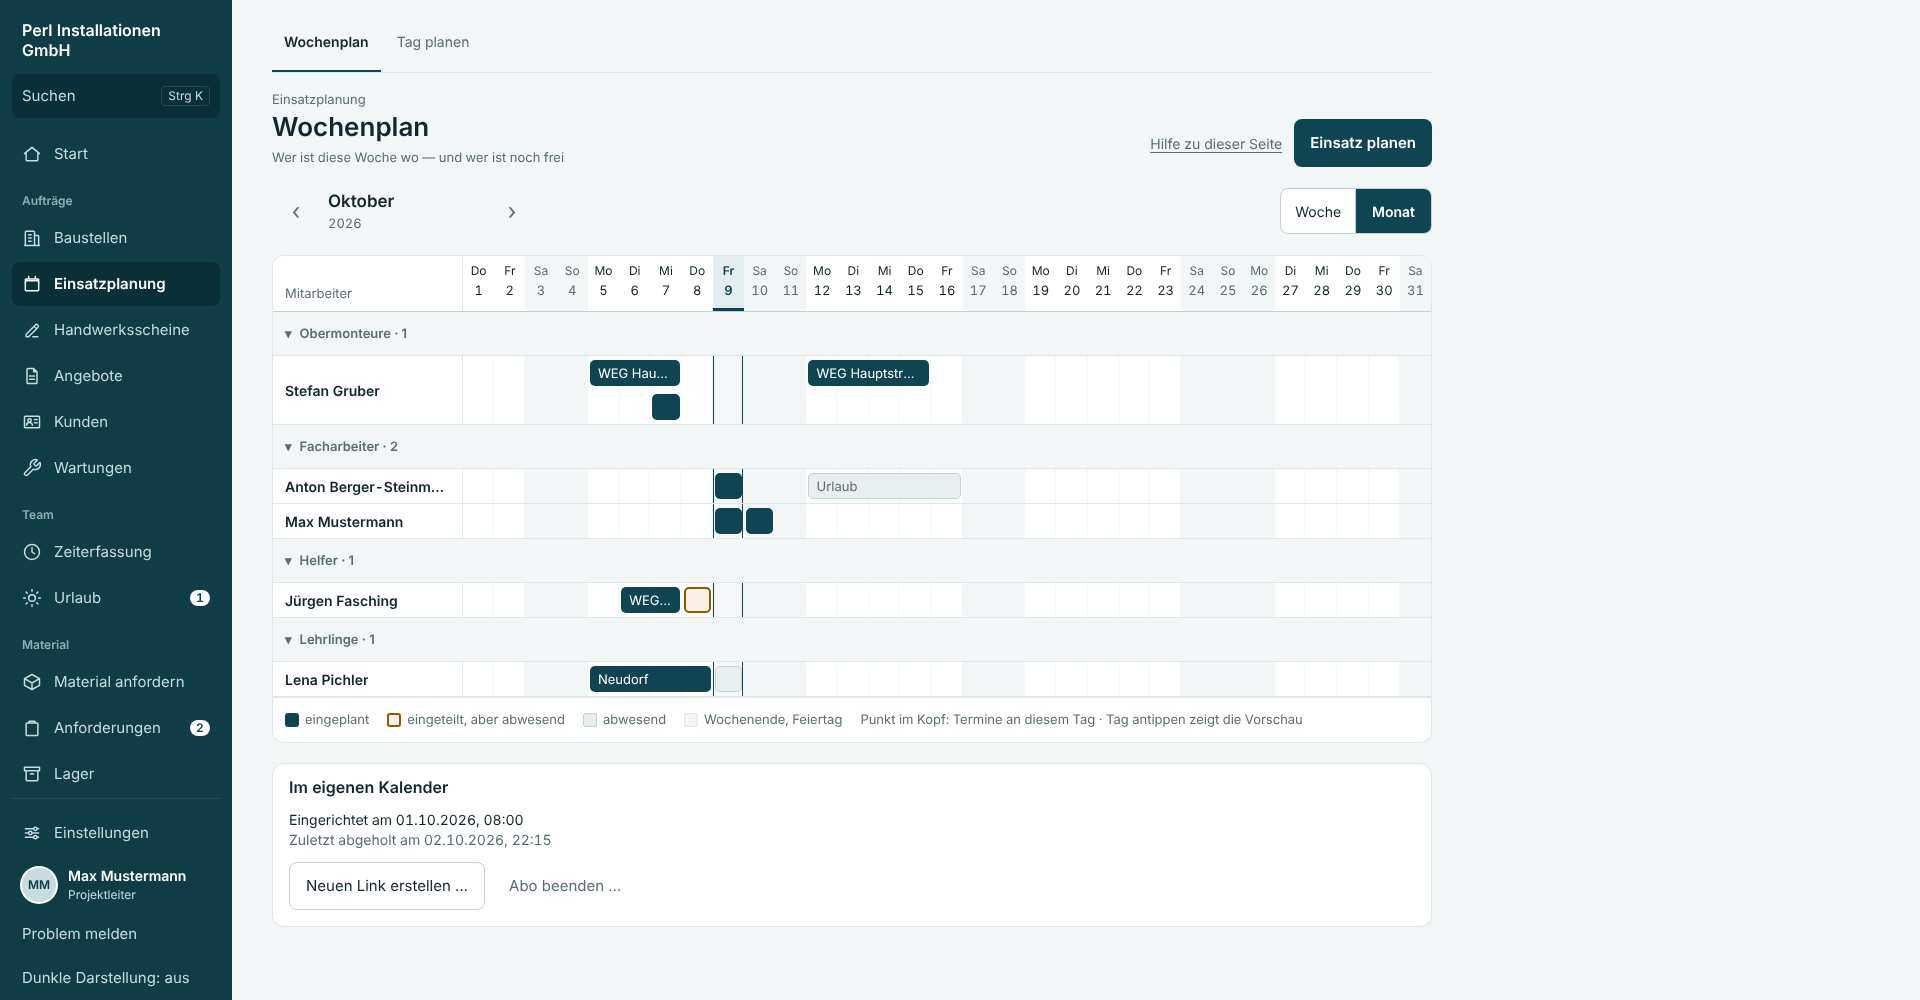
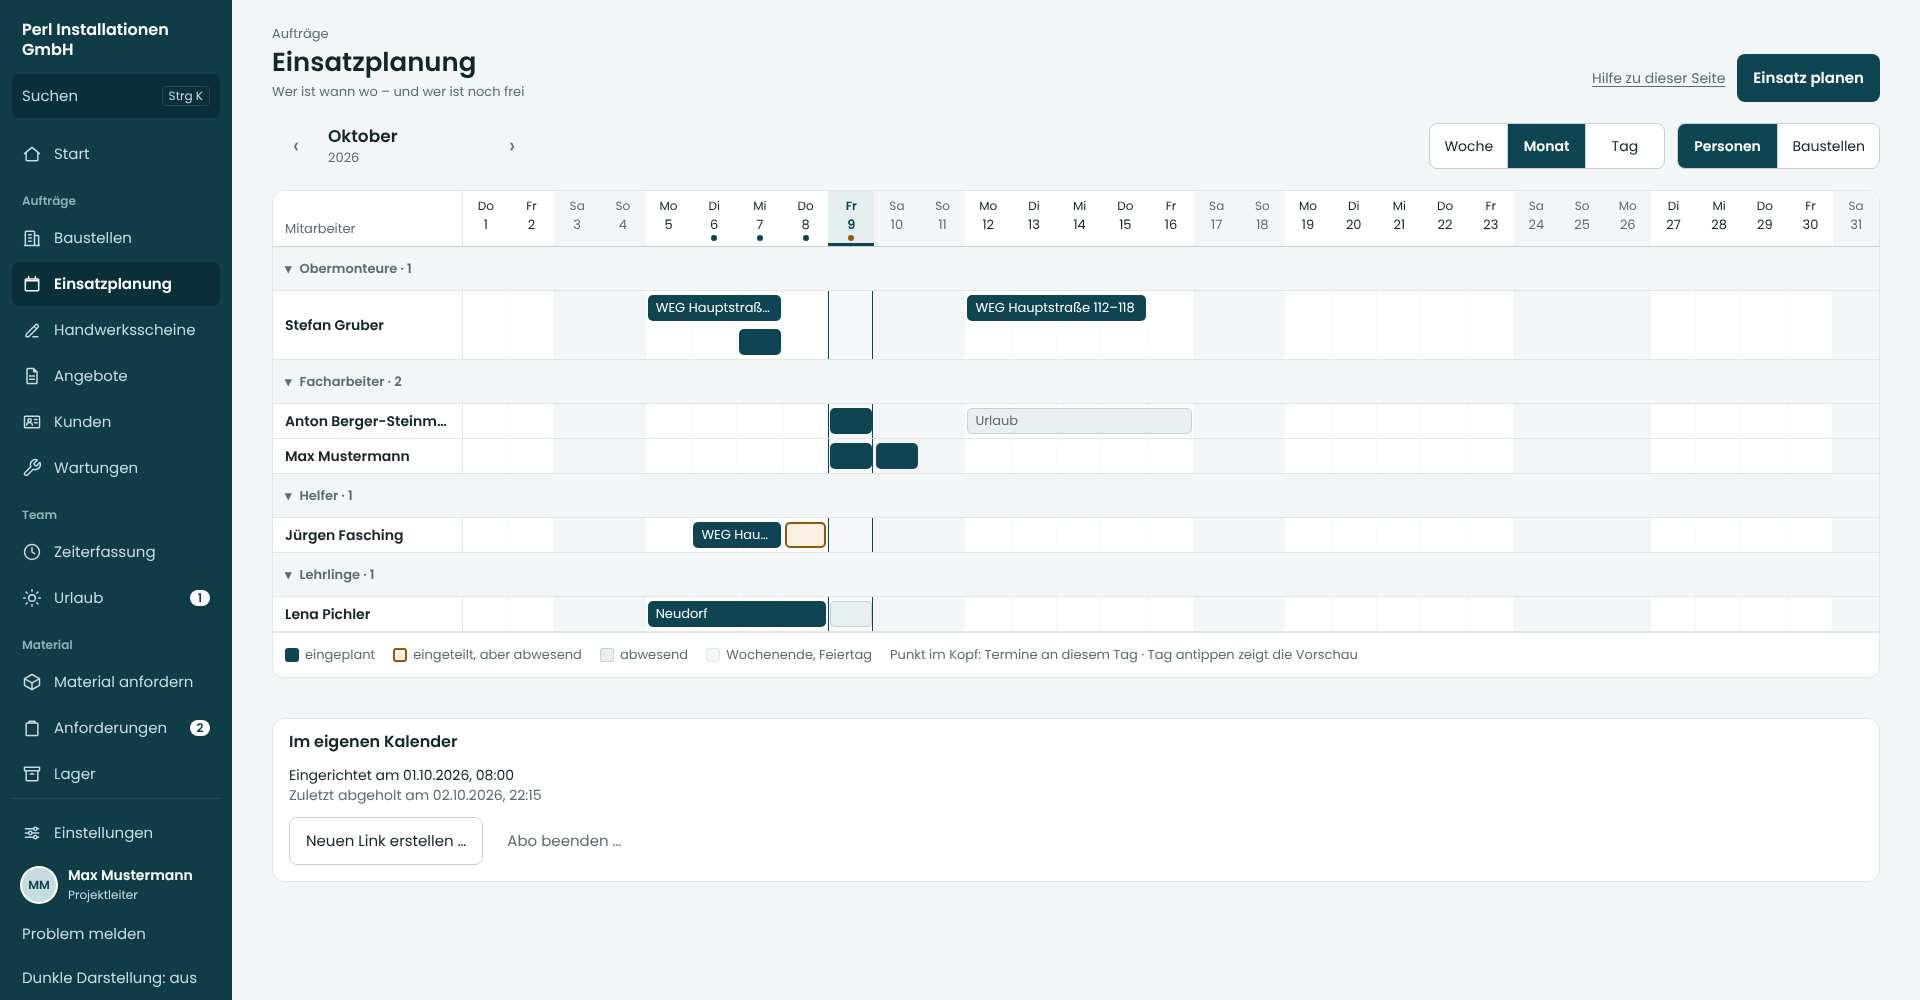
Fotos nachher, Stempel 6431 Prüfungen (4 648 Einheit, 1 738 Datenbank, 38 Browser, 7 Links)
Claude-Session: https://claude.ai/code/session_01EyetfL8jM2L1F4xSGoY9C8

diff --git a/docs/handbuch/handbuch.html b/docs/handbuch/handbuch.html
@@ -672,7 +672,7 @@
     <div class="stempel">
       <span>Stand <b>09.10.2026</b></span>
       <span>Fassung <b>Oberfläche Lot · Runde 4</b></span>
-      <span>Automatische Prüfungen <b>6198</b></span>
+      <span>Automatische Prüfungen <b>6431</b></span>
       <span><a href="https://installateur-demo.firebaseapp.com/">installateur-demo.firebaseapp.com</a></span>
     </div>
   </header>

diff --git a/docs/ui-umbau/r4/abnahme/R4-0.md b/docs/ui-umbau/r4/abnahme/R4-0.md
@@ -30,7 +30,7 @@ jede Änderung an Berechnungen, Exporten, Rechten oder dem Kalender-Abo.
 |---|---|---|
 | V1 | Zweig `ui-lot-r4` von main 21e4d94, Markierung `vor-r4` | erledigt |
 | V2 | Bestandsliste der drei Bereiche | Die Bestandsliste der Linie „Lot“ (`docs/ui-umbau/bestand-vorher.json`) enthält die Bereiche schon; die Zuordnung alt → neu steht vollständig in `docs/ui-umbau/r4/zuordnung.json` (Abschnitt 9, aus dem Code ergänzt). Ein neuer Lauf des Bestandsskripts je Rolle wurde nicht gemacht – **offen**. |
-| V3 | Bildschirmfotos vorher | `docs/ui-umbau/r4/vorher/` – Vorschau mit Beispieldaten, 390/834/1440/1920 px: Mitarbeiterübersicht (Buchhaltung), Woche, Monat, Tag planen (Projektleiter), Team-Woche (Mitarbeiter). Weitere Rollen: offen. |
+| V3 | Bildschirmfotos vorher | `docs/ui-umbau/r4/vorher/` – Vorschau mit Beispieldaten, 390/834/1440/1920 px: Mitarbeiterübersicht (Buchhaltung), Woche, Monat, Tag planen (Projektleiter), „Mein Einsatzplan“ (Mitarbeiter; der Schalter „Wochenplan für alle“ war in der Vorschau damals aus, deshalb kein Bild der Team-Woche vorher — ihr Aussehen hält der DOM-Vergleich `tests/components/TeamWoche.test.tsx` fest, aufgenommen vor dem Umbau). Nachher: `docs/ui-umbau/r4/nachher/`, dieselben Namen, dazu die Team-Woche. Weitere Rollen: offen. |
 | V4 | Referenzdateien und Prüfsummen | `docs/ui-umbau/r4/referenz.json` aus `tests/unit/r4Referenz.test.ts`: Monats-CSV, CSV je Person (zwei Personen), „Bericht für Zeitraum“ (Stundennachweis-PDF und Projekt-CSV), Kalender-Abo des Gesamtplans (ICS). Die Prüfung läuft in jedem Testlauf mit. |
 | V5 | Testbestand nach Abschnitt 7 laden, Messprotokoll | **offen** – kein Lauf gegen 25 Personen × 31 Tage; siehe Abnahmeblätter R4-A/B/C. |
 | V6 | Heutige Browser-Wege grün (Chromium, WebKit) | CI auf main 21e4d94 grün („Die sechs Wege im Browser“, WebKit eingeschlossen). |
